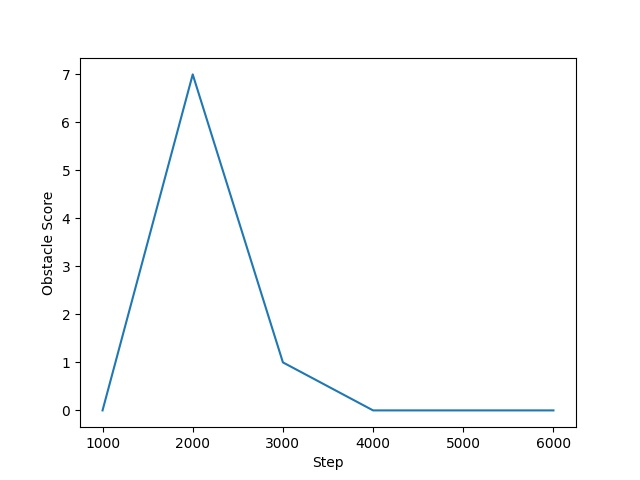
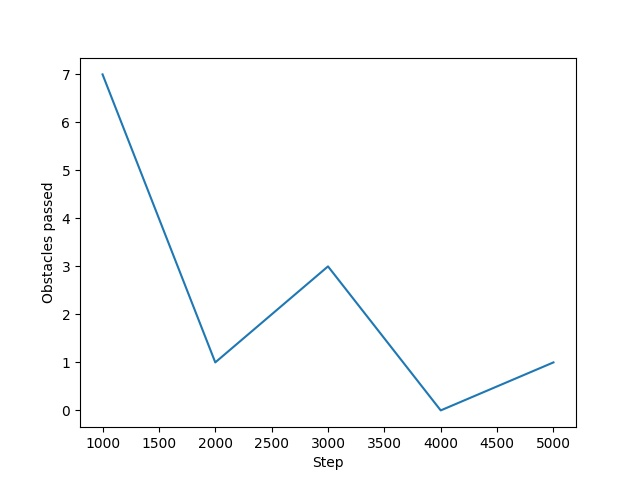
tweeked epsilon, alpha, gamma

diff --git a/main.py b/main.py
@@ -9,14 +9,16 @@ def __main__():
     
     # Ai sarsa settings
     training = True
-    epsilon = 0.1
-    gamma = 0.85
-    alpha = 0.95
+    epsilon = 0.9
+    gamma = 0.95
+    alpha = 0.75
     jump = 0.2
     stay = 0.8
     max_step = 100000
     steps = max_step
-    
+    passed_count = 0
+    reward = 0
+
     # Define our windows
     if display_graphics:
         game_window = GraphWin('Dino Game', Constants.WINDOW_WIDTH, Constants.WINDOW_HEIGHT)
@@ -34,7 +36,7 @@ def __main__():
     ai = Sarsa(epsilon, gamma, alpha, jump, stay)
     state1 = ai.get_state(game.obstacle_manager.obstacles)
     action1 = ai.select_action(state1) # action is an input, index is how we access the value
-    reward = 0
+    
 
     #matplot
     x = []
@@ -44,7 +46,7 @@ def __main__():
 
     # Game Loop
     while (steps > 0):
-       
+
         steps -= 1
 
         if (gamemode == 'human'):
@@ -60,10 +62,11 @@ def __main__():
 
         # if we hit an object make a large negative rewardqq
         if(game.just_collided):
-            reward -= 10
+            reward = 0
         # if we dodged an object reward positive
-        elif(game.check_dodge):
-            reward += 100
+        elif(passed_count < game.obstacle_manager.passed):
+            passed_count += 1
+            reward += 20
         elif(action1 == "jump"):
             reward -=10
         
@@ -91,7 +94,7 @@ def __main__():
             fig, ax = plt.subplots()
             ax.plot(x,y, '-')
             ax.set_xlabel("Step")
-            ax.set_ylabel("Obstacle Score")
+            ax.set_ylabel("Obstacles passed")
             fig.savefig("GRAPH.jpg")
 
     ai.print_policy()

diff --git a/Game/Constants.py b/Game/Constants.py
@@ -4,6 +4,6 @@ GROUND = 180
 WINDOW_WIDTH = 750
 WINDOW_HEIGHT = 500
 DELAY = 0.035
-NUM_OBSTACLES = 3
+NUM_OBSTACLES =1
 UNIT_SIZE = 10
 SPAWN = 50
